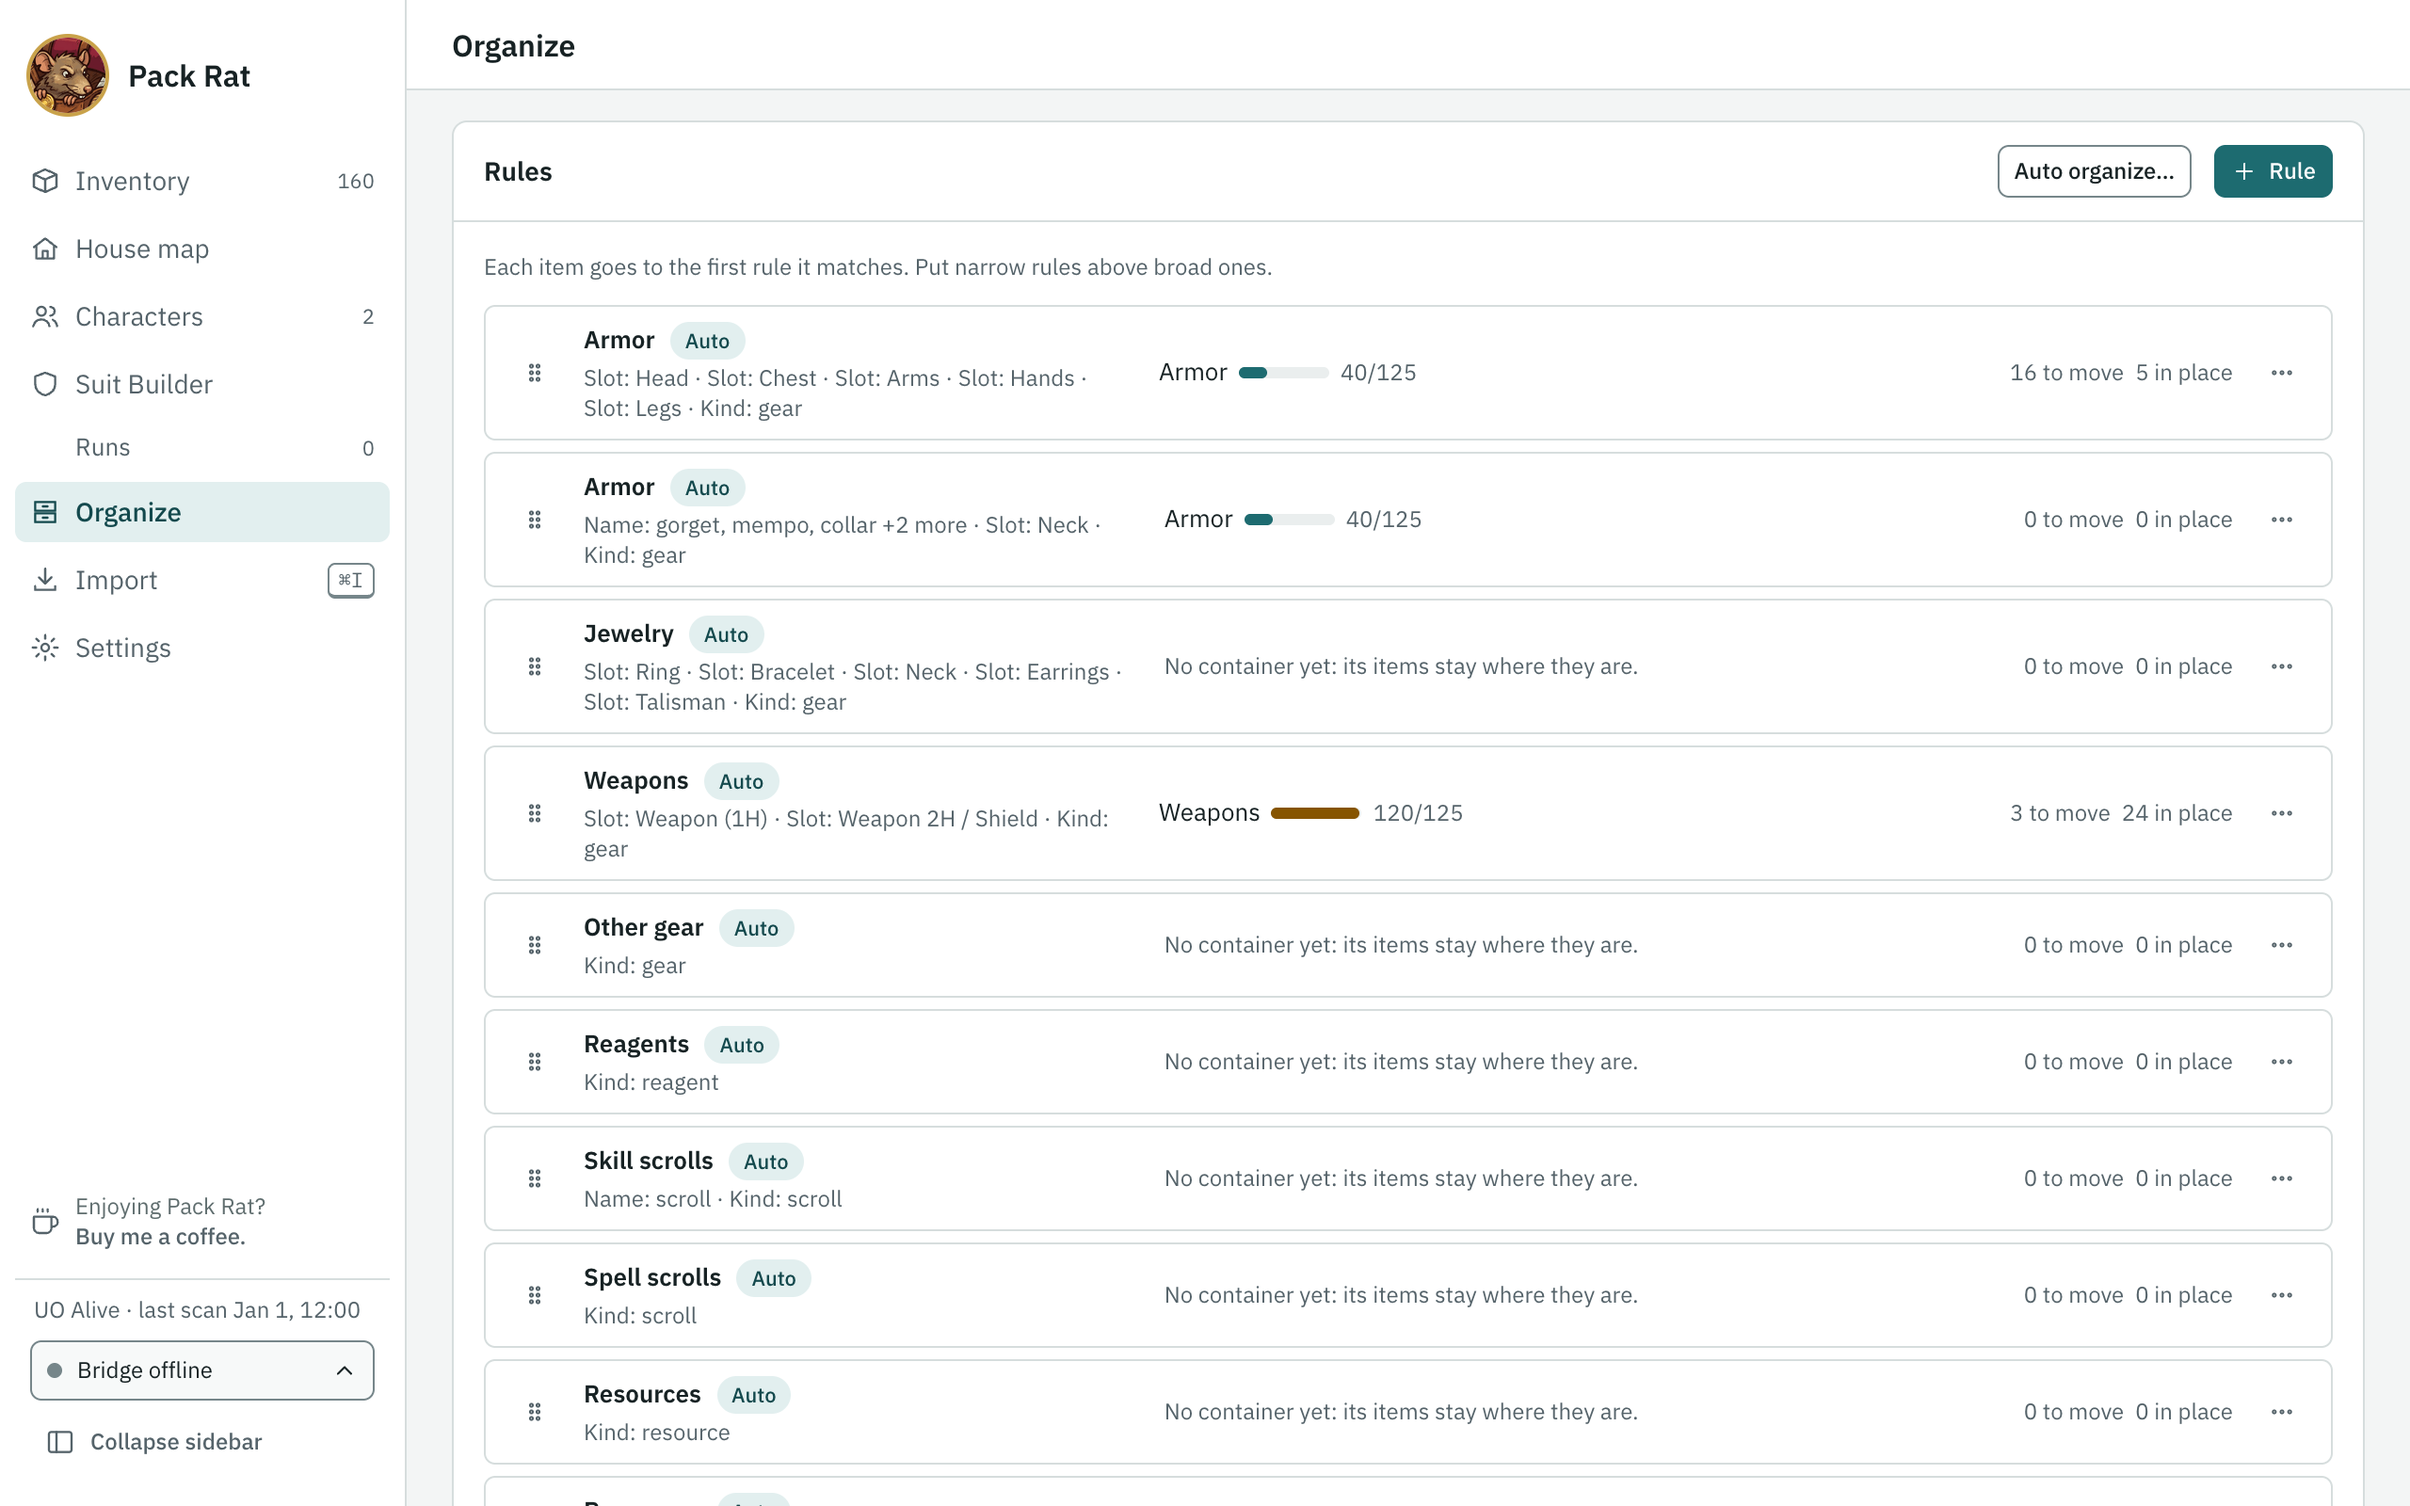
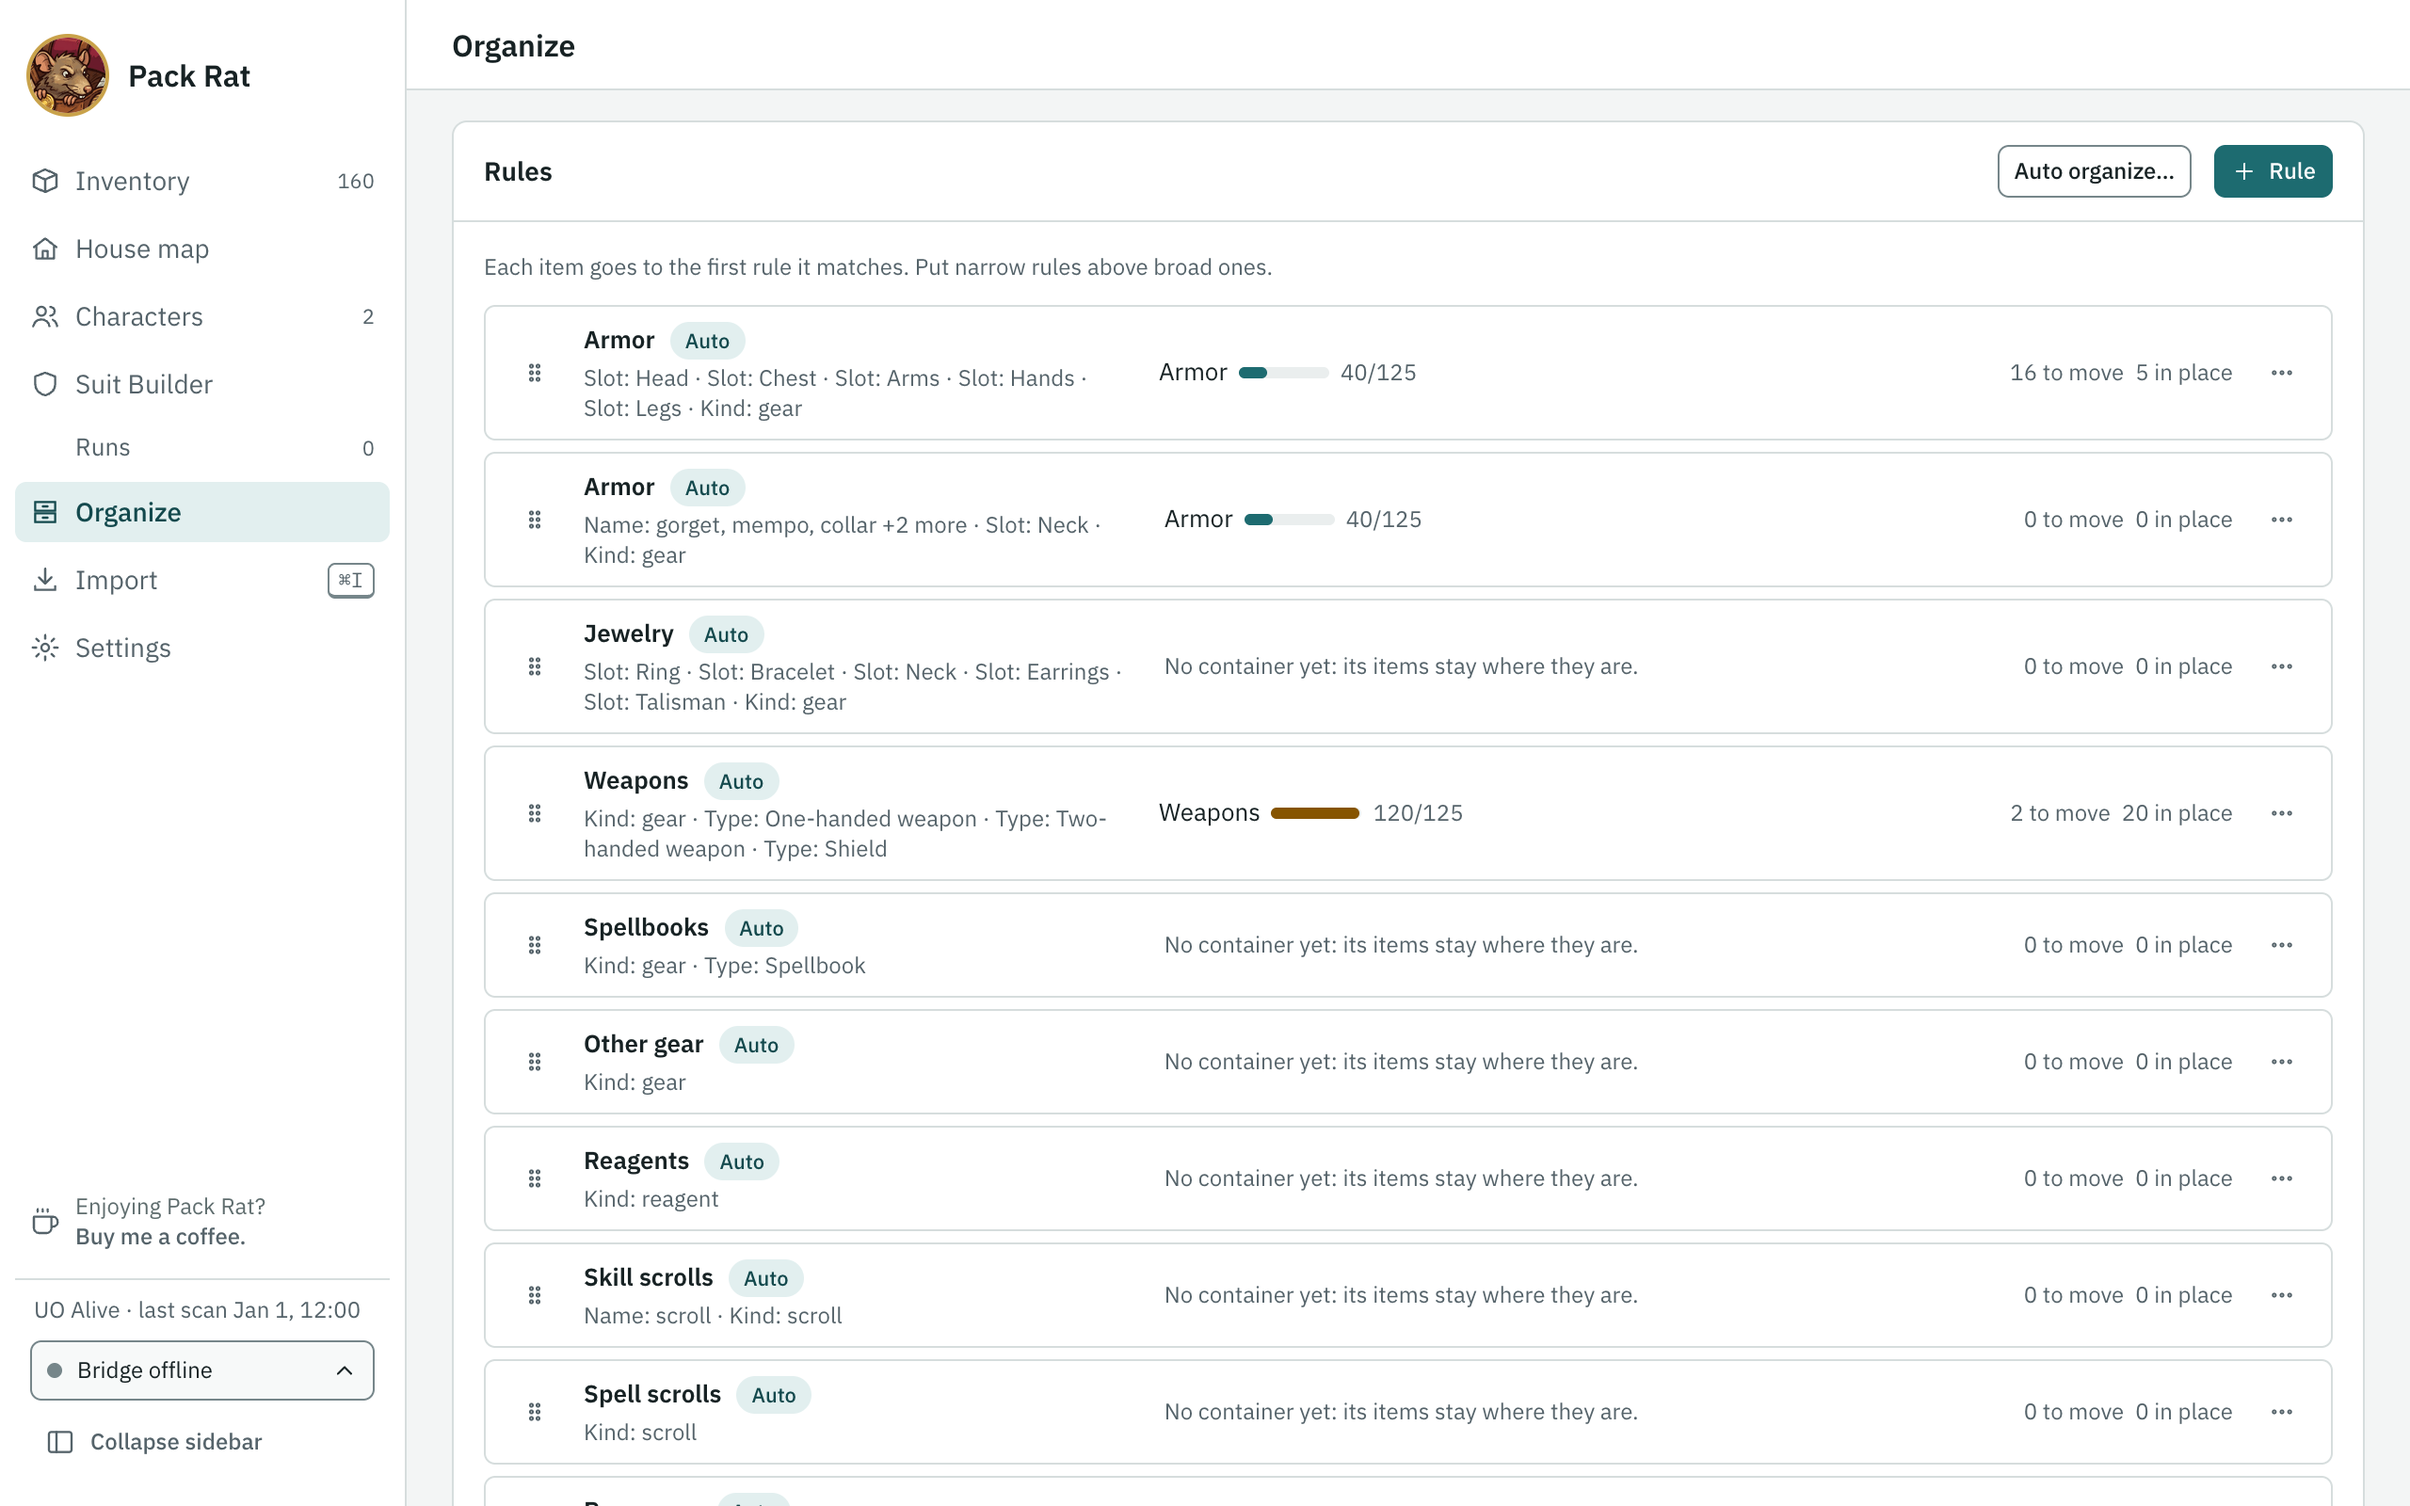
Give spellbooks their own Auto organize group (#534)

diff --git a/docs/ui/inventory.md b/docs/ui/inventory.md
@@ -88,7 +88,7 @@ The filter state is the browser's `query`, the shape `item-query.mts`'s `parseIt
 
 - **Any-of lists:** Character, Slot, Location (as bag texts `loc`, whole root containers `root` and houses `house`), Kind, Type and Weapon skill.
   - A container labelled for Organize is listed in Location by its label, as the Location column shows it, with its scanned name beside the serial (`placeNames`); the list's own search finds either. The search box finds an item by its container's label too: `applyItemQuery` takes `labelledPlaces` as `places`, on the server and in Select all matching.
-  - Type (`type=shield`) is what a piece is, from `domain/pools.mts`'s `itemTypeOf`: Shield, Two-handed weapon, One-handed weapon, Spellbook, Armor, Jewelry, Clothing or Other. A weapon (`isWeapon`: a held piece with a Skill Required or Weapon Speed line) is one- or two-handed by its tooltip's "One-handed Weapon" / "Two-handed Weapon" line, which classify reads ahead of the name; a held piece that is no weapon is a Shield in the two-handed slot, whatever its name, and a Spellbook in the one-handed one. Everything that is not gear is Other.
+  - Type (`type=shield`) is what a piece is (`domain/pools.mts`'s `itemTypeOf`, `ITEM_TYPES`). A weapon (`isWeapon`: a held piece with a Skill Required or Weapon Speed line) is one- or two-handed by its tooltip's "One-handed Weapon" / "Two-handed Weapon" line, which classify reads ahead of the name; a held piece that is no weapon is a Shield in the two-handed slot, whatever its name, and in the one-handed one a Spellbook by a book's name or graphic, a One-handed weapon by a weapon's name, else Other. Everything that is not gear is Other.
   - The chip sits beside Kind, with the facets' `types` counts. A browser fixed to slots (the Manual picker) offers only the types those slots hold (`typesOfSlot`), and hides the chip when that is one. While Type names no weapon type, the Weapon skill chip is hidden unless set.
   - Location lists the houses on the House map under **Houses** (claimed ones, by their House map names, `house-links.mts`'s `mapHouses`), each with its count, then each house's containers under its name, then the ground containers in no house under **On the ground**. A house's checkbox takes every container standing in it, now and as later scans add more: the server reads `house=<id>` through `HousesService.houseOfContainers` (the house model's stacks), and its token reads "Location: <house name>".
   - Weapon skill (issue #188) is written `wskill=swordsmanship`, with lower-cased skill names, and its tokens read "Weapon skill: Swordsmanship".

diff --git a/docs/user-guide.md b/docs/user-guide.md
@@ -156,7 +156,7 @@ For gear you never want (imbuing fodder, say), put a rule at the top that sends 
 
 **Auto organize** does the setting up for you. Press **Auto organize…** on the Organize screen and choose a strategy:
 
-- **Simple:** one container for each kind of thing: armor, weapons, jewelry, reagents, skill scrolls, spell scrolls, treasure maps and SOS, resources with the refinements, tools with the instruments and crafting tools, decor, quest and event items, and so on.
+- **Simple:** one container for each kind of thing: armor, weapons, spellbooks, jewelry, reagents, skill scrolls, spell scrolls, treasure maps and SOS, resources with the refinements, tools with the instruments and crafting tools, decor, quest and event items, and so on.
 - **Detailed:** armor by slot, reagents by school, power scrolls by level, spell scrolls by school, resources by type, crafting tools apart from the other tools.
 - **By build:** gear sorted into Caster, Melee, Hybrid, Tank and Other gear by its properties (a spellbook with none counts as Caster), everything else as in Simple.
 

diff --git a/changelog.d/532-organize-spellbooks.md b/changelog.d/532-organize-spellbooks.md
@@ -1,0 +1,2 @@
+- **Spellbooks get their own Auto organize group**: Simple and Detailed put every spellbook (Scrapper's Compendium included) in a Spellbooks group instead of the Weapons chest, which now takes only weapons and shields. A setup made before gets the new group proposed the next time you run Auto organize. The Type filter calls a held one-handed piece a spellbook only by a book's name or graphic: a weapon scanned without its skill line stays a one-handed weapon, and a held tool with properties is Other. The Weapons preset leaves spellbooks out, and a new Spellbooks preset takes them.
+- For contributors: Organize's `weapons` preset matches Type one-handed, two-handed or shield (in place of the two held slots); the new `spellbooks` preset matches Type spellbook and replaces Detailed's name list (`SPELLBOOK_NAMES`, removed).
